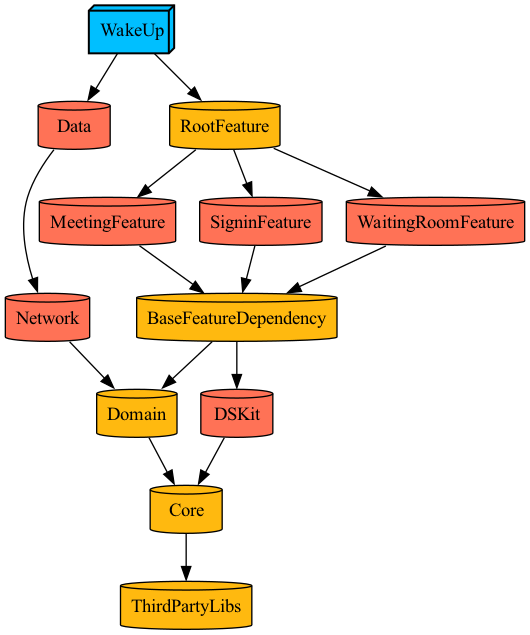
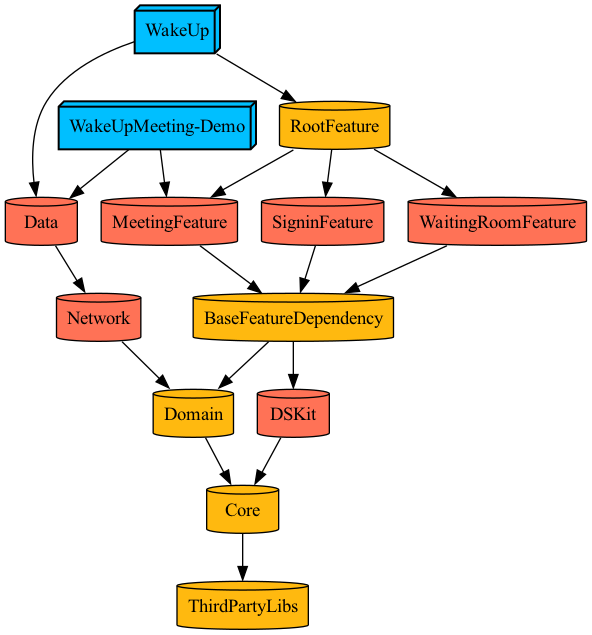
meetingRoom 초기설정, meetingRoom 데모앱 생성

Changed region(s): [[0.0, 0.0, 0.9962, 1.0], [0.3925, 0.0898, 0.4226, 0.1197], [0.1208, 0.0898, 0.1509, 0.1197]]

diff --git a/WakeUp-iOS/Projects/WakeUpMeeting-Demo/Sources/Application/SceneDelegate.swift b/WakeUp-iOS/Projects/WakeUpMeeting-Demo/Sources/Application/SceneDelegate.swift
@@ -1,0 +1,57 @@
+//
+//  SceneDelegate.swift
+//  ios-qube
+//
+//  Created by Junyoung Lee on 2023/07/10.
+//  Copyright © 2023 Quriously. All rights reserved.
+//
+
+import UIKit
+import MeetingFeature
+
+class SceneDelegate: UIResponder, UIWindowSceneDelegate {
+
+    var window: UIWindow?
+    var appCoordinator: MeetingCoordinator?
+
+    func scene(_ scene: UIScene, willConnectTo session: UISceneSession, options connectionOptions: UIScene.ConnectionOptions) {
+        guard let windowScene = (scene as? UIWindowScene) else { return }
+        let navigationController = UINavigationController()
+        
+        window = UIWindow(windowScene: windowScene)
+        window?.rootViewController = navigationController
+        navigationController.isNavigationBarHidden = true
+        window?.makeKeyAndVisible()
+        appCoordinator = DefaultMeetingCoordinator(navigationController: navigationController)
+        appCoordinator?.start()
+    }
+    
+    func sceneDidDisconnect(_ scene: UIScene) {
+        // Called as the scene is being released by the system.
+        // This occurs shortly after the scene enters the background, or when its session is discarded.
+        // Release any resources associated with this scene that can be re-created the next time the scene connects.
+        // The scene may re-connect later, as its session was not necessarily discarded (see `application:didDiscardSceneSessions` instead).
+    }
+
+    func sceneDidBecomeActive(_ scene: UIScene) {
+        // Called when the scene has moved from an inactive state to an active state.
+        // Use this method to restart any tasks that were paused (or not yet started) when the scene was inactive.
+    }
+
+    func sceneWillResignActive(_ scene: UIScene) {
+        // Called when the scene will move from an active state to an inactive state.
+        // This may occur due to temporary interruptions (ex. an incoming phone call).
+    }
+
+    func sceneWillEnterForeground(_ scene: UIScene) {
+        // Called as the scene transitions from the background to the foreground.
+        // Use this method to undo the changes made on entering the background.
+    }
+
+    func sceneDidEnterBackground(_ scene: UIScene) {
+        // Called as the scene transitions from the foreground to the background.
+        // Use this method to save data, release shared resources, and store enough scene-specific state information
+        // to restore the scene back to its current state.
+    }
+
+}

diff --git a/WakeUp-iOS/Projects/WakeUpMeeting-Demo/Sources/Application/AppDelegate.swift b/WakeUp-iOS/Projects/WakeUpMeeting-Demo/Sources/Application/AppDelegate.swift
@@ -1,0 +1,47 @@
+//
+//  AppDelegate.swift
+//  ios-qube
+//
+//  Created by Junyoung Lee on 2023/07/10.
+//  Copyright © 2023 Quriously. All rights reserved.
+//
+
+import UIKit
+import Core
+import DSKit
+
+@main
+class AppDelegate: UIResponder, UIApplicationDelegate {
+
+    func application(_ application: UIApplication, didFinishLaunchingWithOptions launchOptions: [UIApplication.LaunchOptionsKey: Any]?) -> Bool {
+        
+        #if DEV
+        print("Develop")
+        #else
+        print("Product")
+        #endif
+        
+        /// 모든 의존성 생성
+        registerDependencies()
+        
+        /// 폰트 생성
+        Fonts.fontInitialize()
+        
+        return true
+    }
+
+    // MARK: UISceneSession Lifecycle
+
+    func application(_ application: UIApplication, configurationForConnecting connectingSceneSession: UISceneSession, options: UIScene.ConnectionOptions) -> UISceneConfiguration {
+        // Called when a new scene session is being created.
+        // Use this method to select a configuration to create the new scene with.
+        return UISceneConfiguration(name: "Default Configuration", sessionRole: connectingSceneSession.role)
+    }
+
+    func application(_ application: UIApplication, didDiscardSceneSessions sceneSessions: Set<UISceneSession>) {
+        // Called when the user discards a scene session.
+        // If any sessions were discarded while the application was not running, this will be called shortly after application:didFinishLaunchingWithOptions.
+        // Use this method to release any resources that were specific to the discarded scenes, as they will not return.
+    }
+    
+}

diff --git a/WakeUp-iOS/Plugins/EnvPlugin/ProjectDescriptionHelpers/InfoPlists.swift b/WakeUp-iOS/Plugins/EnvPlugin/ProjectDescriptionHelpers/InfoPlists.swift
@@ -19,6 +19,8 @@ public extension Project {
         "UIRequiresFullScreen": true,
         "UISupportedInterfaceOrientations": ["UIInterfaceOrientationPortrait"],
         "ITSAppUsesNonExemptEncryption": false,
+        "NSMicrophoneUsageDescription": "마이크 권한 설정",
+        "NSCameraUsageDescription": "카메라 권한 설정",
         "UIApplicationSceneManifest": [
             "UIApplicationSupportsMultipleScenes": false,
             "UISceneConfigurations": [
@@ -44,12 +46,14 @@ public extension Project {
         "CFBundleDevelopmentRegion": "ko",
         "CFBundleVersion": "1",
         "CFBundleIdentifier": "com.quriously.qube.test",
-        "CFBundleDisplayName": "WakeUpTest",
+        "CFBundleDisplayName": "WakeUp-Demo",
         "UILaunchStoryboardName": "Launch Screen",
         "UIUserInterfaceStyle": "Light",
         "UIRequiresFullScreen": true,
         "UISupportedInterfaceOrientations": ["UIInterfaceOrientationPortrait"],
         "ITSAppUsesNonExemptEncryption": false,
+        "NSMicrophoneUsageDescription": "마이크 권한 설정",
+        "NSCameraUsageDescription": "카메라 권한 설정",
         "UIApplicationSceneManifest": [
             "UIApplicationSupportsMultipleScenes": false,
             "UISceneConfigurations": [

diff --git a/WakeUp-iOS/Projects/Features/MeetingFeature/Sources/Coordinator/DefaultMeetingCoordinator.swift b/WakeUp-iOS/Projects/Features/MeetingFeature/Sources/Coordinator/DefaultMeetingCoordinator.swift
@@ -1,0 +1,36 @@
+//
+//  DefaultMeetingCoordinator.swift
+//  MeetingFeature
+//
+//  Created by Junyoung on 2023/09/02.
+//  Copyright © 2023 WakeUp. All rights reserved.
+//
+
+import UIKit
+
+import Core
+import BaseFeatureDependency
+
+public final class DefaultMeetingCoordinator: MeetingCoordinator {
+    public var finishDelegate: CoordinatorFinishDelegate?
+    
+    public var navigationController: UINavigationController
+    
+    public var childCoordinators: [Coordinator] = []
+    
+    public var coordinatorType: CoordinatorType {.meeting}
+    
+    public init(navigationController: UINavigationController) {
+        self.navigationController = navigationController
+    }
+    
+    public func start() {
+        let viewController = MeetingRoomVC()
+        let viewModel = MeetingRoomViewModel()
+        
+        viewController.bind(to: viewModel)
+        self.navigationController.pushViewController(viewController, animated: true)
+    }
+    
+    
+}

diff --git a/WakeUp-iOS/Projects/WakeUpMeeting-Demo/Sources/Application/AppDelegate+Extension.swift b/WakeUp-iOS/Projects/WakeUpMeeting-Demo/Sources/Application/AppDelegate+Extension.swift
@@ -1,0 +1,28 @@
+//  AppDelegate+Extension.swift
+//  ios-qube
+//
+//  Created by Junyoung Lee on 2023/08/17.
+//  Copyright © 2023 Quriously. All rights reserved.
+//
+
+import Foundation
+import Domain
+import Network
+import Data
+import Core
+
+extension AppDelegate {
+    var container: DIContainer {
+        DIContainer.shared
+    }
+
+    func registerDependencies() {
+
+        // MARK: - Repository
+//        container.register(interface: APIManager.self) { _ in DefaultAPIManager() }
+
+        // MARK: - UseCase
+//        container.register(interface: SplashUseCase.self) { _ in Splash() }
+    }
+}
+

diff --git a/WakeUp-iOS/Projects/Features/MeetingFeature/Sources/ViewController/MeetingRoomVC.swift b/WakeUp-iOS/Projects/Features/MeetingFeature/Sources/ViewController/MeetingRoomVC.swift
@@ -1,0 +1,27 @@
+//
+//  MeetingRoomVC.swift
+//  MeetingFeature
+//
+//  Created by Junyoung on 2023/09/02.
+//  Copyright © 2023 WakeUp. All rights reserved.
+//
+
+import UIKit
+import BaseFeatureDependency
+import Core
+
+class MeetingRoomVC: BaseVC, ViewModelBindable {
+
+    var viewModel: MeetingRoomViewModel?
+    
+    override func viewDidLoad() {
+        super.viewDidLoad()
+
+        // Do any additional setup after loading the view.
+    }
+    
+    func bindViewModel() {
+        
+    }
+
+}

diff --git a/WakeUp-iOS/Projects/Features/MeetingFeature/Sources/ViewModel/MeetingRoomViewModel.swift b/WakeUp-iOS/Projects/Features/MeetingFeature/Sources/ViewModel/MeetingRoomViewModel.swift
@@ -1,0 +1,25 @@
+//
+//  MeetingRoomViewModel.swift
+//  MeetingFeature
+//
+//  Created by Junyoung on 2023/09/02.
+//  Copyright © 2023 WakeUp. All rights reserved.
+//
+
+import Foundation
+import BaseFeatureDependency
+
+final class MeetingRoomViewModel: ViewModelType {
+    struct Input {
+        
+    }
+    
+    struct Output {
+        
+    }
+    
+    func transform(input: Input) -> Output {
+        
+        return Output()
+    }
+}

diff --git a/WakeUp-iOS/Projects/WakeUpMeeting-Demo/Project.swift b/WakeUp-iOS/Projects/WakeUpMeeting-Demo/Project.swift
@@ -1,0 +1,12 @@
+import ProjectDescription
+import ProjectDescriptionHelpers
+import DependencyPlugin
+import EnvPlugin
+
+let project = Project.makeModule(
+    name: "\(Environment.workspaceName)Meeting-Demo",
+    targets: [.app, .unitTest],
+    internalDependencies: [
+        .Features.Meeting.Feature,
+        .data
+    ])

diff --git a/WakeUp-iOS/Tuist/ProjectDescriptionHelpers/Project+Templates.swift b/WakeUp-iOS/Tuist/ProjectDescriptionHelpers/Project+Templates.swift
@@ -138,7 +138,7 @@ public extension Project {
         : schemes
         
         if name.contains("Demo") {
-            let testAppScheme = Scheme.makeScheme(configs: "TEST", name: name)
+            let testAppScheme = Scheme.makeScheme(configs: "DEV", name: name)
             scheme.append(testAppScheme)
         }
         

diff --git a/WakeUp-iOS/Projects/Features/MeetingFeature/Sources/Coordinator/Protocol/MeetingCoordinator.swift b/WakeUp-iOS/Projects/Features/MeetingFeature/Sources/Coordinator/Protocol/MeetingCoordinator.swift
@@ -1,0 +1,14 @@
+//
+//  MeetingCoordinator.swift
+//  MeetingFeature
+//
+//  Created by Junyoung on 2023/09/02.
+//  Copyright © 2023 WakeUp. All rights reserved.
+//
+
+import Foundation
+import BaseFeatureDependency
+
+public protocol MeetingCoordinator: Coordinator {
+    
+}
